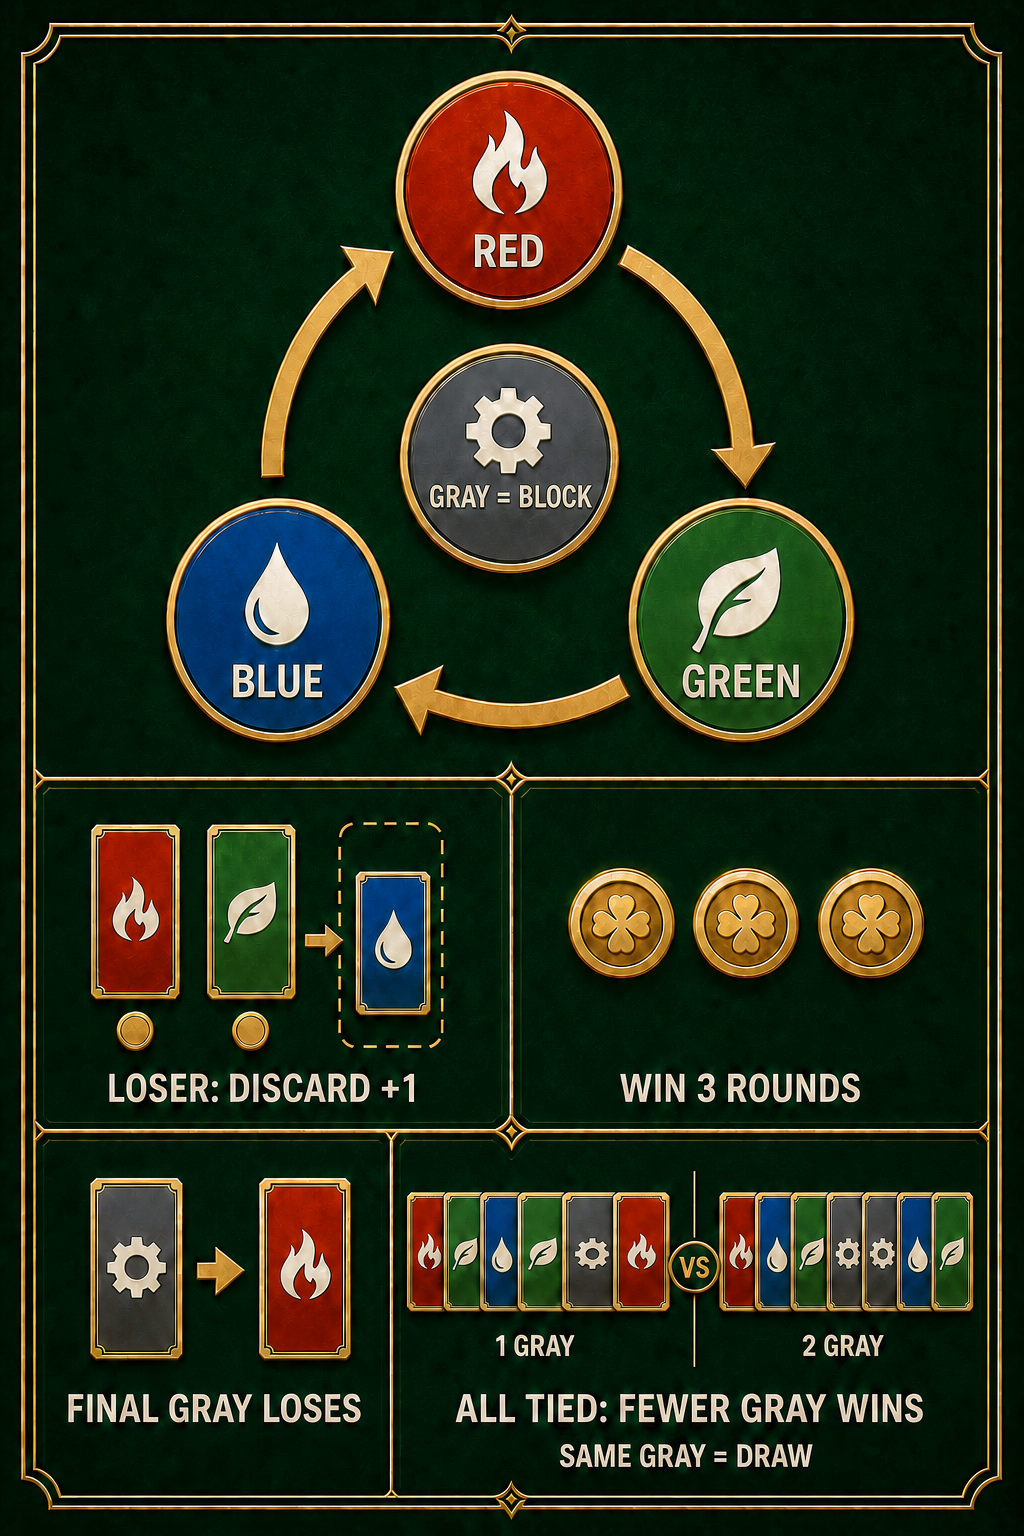
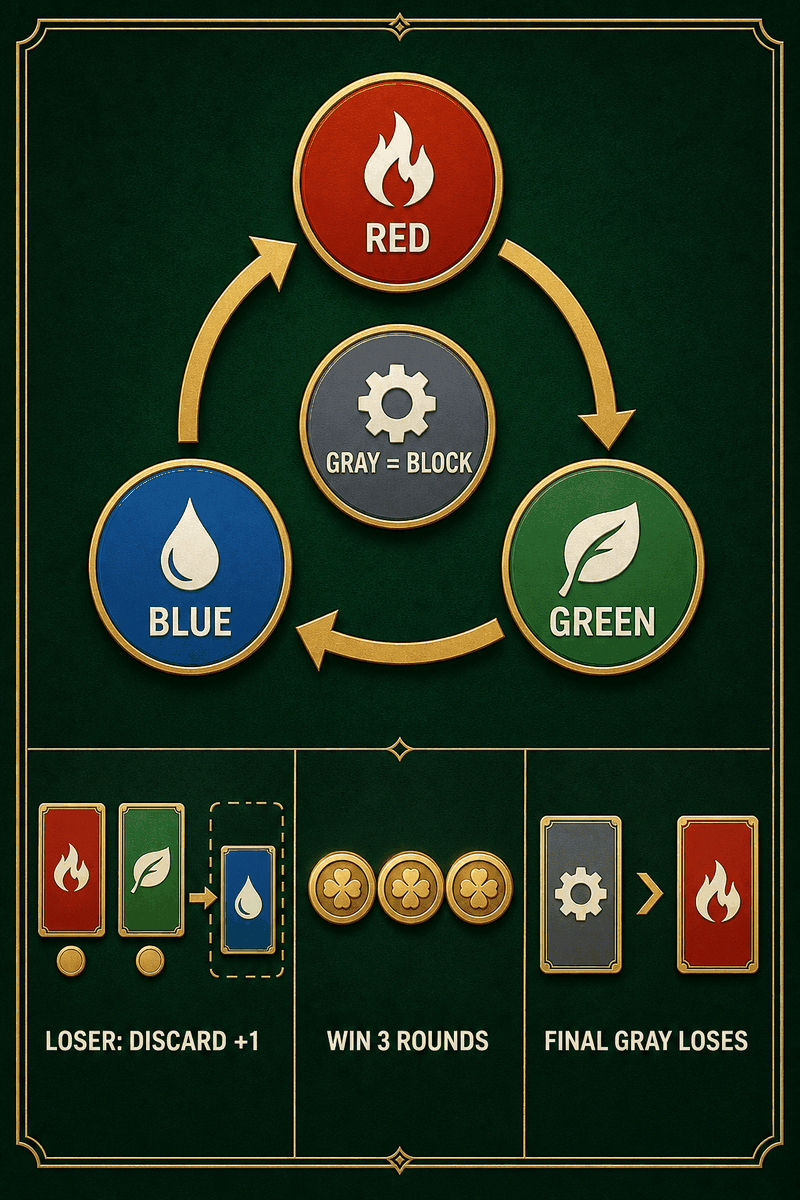
CORE7 v0.4.3 conversation starter

diff --git a/core7/rules/index.html b/core7/rules/index.html
@@ -37,7 +37,7 @@
         <h3>เกมนี้ใช้ข้อมูลบนการ์ดเพียงอย่างเดียว: สี</h3>
         <p style="font-size:15px">ใช้การ์ดอะไรก็ได้ — การ์ดของเรา กระดาษสี หรือการ์ดจากเกมอื่นใส่ซองสี
         ขอเพียงทุกคนรู้ว่าแต่ละใบแทนสีอะไร ภาพและความหายากไม่มีผลต่อเกมเลย</p>
-        <img class="rules-hero-img" src="/core7/assets/core7-rules-overview.png" alt="แดงชนะเขียว เขียวชนะฟ้า ฟ้าชนะแดง เทาเป็น Block และถ้าเสมอทุกตา คนที่มีเทาน้อยกว่าชนะ">
+        <img class="rules-hero-img" src="/core7/assets/core7-rules-overview.png" alt="แดงชนะเขียว เขียวชนะฟ้า ฟ้าชนะแดง เทาเป็น Block ผู้แพ้ทิ้งเพิ่มหนึ่งใบ ชนะสามรอบ และ Final Gray">
         <div class="kbox">
           🔴 <b>แดง</b> ชนะ 🟢 เขียว<br>
           🟢 <b>เขียว</b> ชนะ 🔵 ฟ้า<br>
@@ -85,8 +85,6 @@
             — เครื่องมือซื้อเวลาได้ แต่เลือกชัยชนะครั้งสุดท้ายแทนมนุษย์ไม่ได้</li>
           <li>รอบสุดท้ายสีเดียวกัน (รวมเทา vs เทา) → ย้อนดูประวัติจากรอบล่าสุดไปเก่าสุด
             ข้ามรอบเสมอ — ใครชนะรอบแรกที่พบ คนนั้นชนะ Match</li>
-          <li><b>เสมอทุกตา</b> → เปิด Starting Hand ครบ 7 ใบของทั้งคู่ แล้วคนที่เริ่มด้วย<b>สีเทาน้อยกว่า</b>ชนะ Match</li>
-          <li>ถ้าจำนวนสีเทาเท่ากันด้วยจริง ๆ จึงเป็น <b>DRAW</b> — เกิดได้ยากมาก นับว่าใจตรงกันพอดี</li>
         </ol>
       </div>
 
@@ -106,7 +104,7 @@
         <p style="font-size:15px">You never need to buy our cards to play CORE7.
         Print your own, use colored paper, sleeve any cards you already own, or bring cards
         from another game. As long as every card clearly represents one of the four colors, you can play.</p>
-        <img class="rules-hero-img" src="/core7/assets/core7-rules-overview.png" alt="Red beats green, green beats blue, blue beats red, gray blocks, and fewer starting gray wins if every round ties">
+        <img class="rules-hero-img" src="/core7/assets/core7-rules-overview.png" alt="Red beats green, green beats blue, blue beats red, gray blocks, loser discards one, win three rounds, and Final Gray">
         <div class="kbox">
           🔴 <b>RED</b> beats 🟢 GREEN<br>
           🟢 <b>GREEN</b> beats 🔵 BLUE<br>
@@ -150,8 +148,6 @@
             non-gray color — a tool can buy time, but it cannot choose the final victory for you.</li>
           <li>Same color in the final round (including gray vs gray) → walk back through the round
             history, newest to oldest, skipping ties. First decisive round wins the match.</li>
-          <li><b>Every round tied</b> → reveal both complete 7-card starting hands. The player who started with <b>fewer GRAY cards</b> wins the match.</li>
-          <li>Only if both GRAY counts are also equal is the match a <b>DRAW</b> — extremely rare; perfectly in sync.</li>
         </ol>
       </div>
       <div class="panel rule-block">

diff --git a/core7/index.html b/core7/index.html
@@ -29,7 +29,7 @@
 @media(min-width:880px){.hero-grid{grid-template-columns:1.15fr .85fr}}
 .hero-cycle{display:flex;flex-direction:column;align-items:center;gap:10px}
 .hero-cycle .cap{font-size:13px;color:rgb(255 255 255/.72);text-align:center;max-width:46ch}
-.rules-overview{display:block;width:min(100%,440px);height:auto;object-fit:contain;box-shadow:0 22px 54px rgb(0 0 0/.32)}
+.rules-overview{display:block;width:min(100%,440px);height:auto;box-sizing:border-box;object-fit:contain;background:#071b10;border:6px solid #0b1712;border-radius:26px;padding:6px;box-shadow:0 22px 54px rgb(0 0 0/.38),0 0 0 1px rgb(var(--gold-l)/.55)}
 .cta-row{display:flex;gap:12px;flex-wrap:wrap;margin-top:30px}
 .step3{display:grid;gap:16px;grid-template-columns:1fr}
 @media(min-width:720px){.step3{grid-template-columns:repeat(3,1fr)}}
@@ -59,7 +59,7 @@
 <header class="hero">
   <div class="wrap hero-grid">
     <div>
-      <span class="tag tag-gold">v0.4.2 · FIRST HAND — ชุดแรก · เล่นฟรี</span>
+      <span class="tag tag-gold">v0.4.3 · FIRST HAND — ชุดแรก · เล่นฟรี</span>
       <h1 class="disp">my<span class="c7">Clover</span>: CORE7</h1>
       <p class="promise">7 ใบ ไม่มีเด็ค ไม่มีดวง<br>มีแค่สิ่งที่คุณเลือก<br>และคนที่นั่งตรงข้าม</p>
       <p class="promise-en">Seven cards. No deck. No draw. Just your choices and the person across the table.</p>
@@ -71,7 +71,7 @@
     </div>
     <div class="hero-cycle">
       <img class="rules-overview" src="/core7/assets/core7-rules-overview.png"
-        alt="CORE7: แดงชนะเขียว เขียวชนะฟ้า ฟ้าชนะแดง เทาเป็น Block ผู้แพ้ทิ้งเพิ่มหนึ่งใบ ชนะครบสามรอบ Final Gray แพ้สีจริง และถ้าเสมอทุกตาเทาน้อยกว่าชนะ">
+        alt="CORE7: แดงชนะเขียว เขียวชนะฟ้า ฟ้าชนะแดง เทาเป็น Block ผู้แพ้ทิ้งเพิ่มหนึ่งใบ ชนะครบสามรอบ และ Final Gray แพ้สีจริง">
       <p class="cap">กติกาหลักทั้งหมดในภาพเดียว · Complete rules at a glance</p>
     </div>
   </div>

diff --git a/core7/js/match-ui.js b/core7/js/match-ui.js
@@ -60,8 +60,8 @@ export function mountMatch(root, client, { onFinished, oppLabel = '' } = {}) {
         <button class="drawer-toggle" id="histBtn" aria-label="เปิด Discard" aria-expanded="false">🗑 Discard</button>
         <div class="match-rules-popover" id="rulesPopover" hidden role="dialog" aria-label="กติกา CORE7">
           <div class="match-rules-head"><b class="disp">CORE7 Rules</b><button type="button" id="rulesClose" aria-label="ปิด Rules">✕</button></div>
-          <img src="/core7/assets/core7-rules-overview.png" alt="แดงชนะเขียว เขียวชนะฟ้า ฟ้าชนะแดง เทาเป็น Block เสมอทุกตาเทาน้อยกว่าชนะ">
-          <p>🔴 &gt; 🟢 &gt; 🔵 &gt; 🔴 · ⚙ = BLOCK<br>เสมอทุกตา: เปิดมือ แล้วคนที่มีเทาน้อยกว่าชนะ · เทาเท่ากัน = DRAW</p>
+          <img src="/core7/assets/core7-rules-overview.png" alt="แดงชนะเขียว เขียวชนะฟ้า ฟ้าชนะแดง เทาเป็น Block ผู้แพ้ทิ้งเพิ่มหนึ่งใบ ชนะสามรอบ และ Final Gray">
+          <p>🔴 &gt; 🟢 &gt; 🔵 &gt; 🔴 · ⚙ = BLOCK<br>ผู้แพ้ทิ้งเพิ่ม 1 ใบ · ชนะครบ 3 รอบ</p>
           <a href="/core7/rules/" target="_blank" rel="noopener">อ่านกติกาเต็ม TH / EN ↗</a>
         </div>
         <div class="rule-line" aria-label="แดงชนะเขียว เขียวชนะฟ้า ฟ้าชนะแดง เทาเป็นบล็อก"><span>🔴 &gt; 🟢 &gt; 🔵 &gt; 🔴</span><span>⚙ = BLOCK</span></div>

diff --git a/core7/js/art.js b/core7/js/art.js
@@ -581,7 +581,7 @@ export function genericCardSVG(color, { width = 300 } = {}) {
 /* ═══ หลังการ์ด — ตราหัวใจโคลเวอร์ + วงเข็มทิศทอง ═══
    ชื่อบนหลังการ์ดคือ "myClover" เท่านั้น (CORE7 เป็นชื่อโหมดของเกม
    ไม่ใช่ชื่อการ์ด — ห้ามพิมพ์บนใบ) ใช้แบบเดียวกันทุกใบ เดาหน้าไพ่ไม่ได้ */
-export function cardBackSVG({ width = 300 } = {}) {
+function legacyCardBackSVG({ width = 300 } = {}) {
   const id = nid('cb');
   /* หนามเพชรของวงเข็มทิศ: ยาวแกนหลัก สั้นแกนทแยง */
   const spike = (rot, len) => `
@@ -639,6 +639,18 @@ export function cardBackSVG({ width = 300 } = {}) {
       <circle cx="0" cy="-2.2" r="2"/><circle cx="-2.6" cy="1" r="2"/>
       <circle cx="2.6" cy="1" r="2"/><path d="M-.6 2 L.6 2 L1.4 6 L-1.4 6 Z"/>
     </g>
+  </svg>`;
+}
+
+/* หลังการ์ดจริงของ CORE7 — 2.5 × 3.5 นิ้ว (5:7), asset เดียวกันทั้งจอและงานพิมพ์ */
+export function cardBackSVG({ width = 300 } = {}) {
+  const id = nid('cb-photo');
+  const height = Math.round(width * 1.4);
+  return `<svg width="${width}" height="${height}" viewBox="0 0 300 420"
+    role="img" aria-label="หลังการ์ด myClover CORE7">
+    <defs><clipPath id="${id}-clip"><rect width="300" height="420" rx="18"/></clipPath></defs>
+    <image href="/core7/assets/card-back-core7.png" width="300" height="420"
+      preserveAspectRatio="none" clip-path="url(#${id}-clip)"/>
   </svg>`;
 }
 

diff --git a/core7/join/index.html b/core7/join/index.html
@@ -9,7 +9,7 @@
 </style>
 </head>
 <body><nav class="c7nav" id="c7nav"></nav><main class="sec"><div class="wrap-slim">
-  <p class="eyebrow">v0.4.2 · Public Lobby</p><h2 class="disp">เข้าห้องออนไลน์</h2>
+  <p class="eyebrow">v0.4.3 · Public Lobby</p><h2 class="disp">เข้าห้องออนไลน์</h2>
   <div class="panel" style="margin-top:20px">
     <div class="field"><label for="jname">ชื่อของคุณบนโต๊ะ</label><input id="jname" maxlength="24"></div>
     <div class="join-row"><div class="field"><label for="jcode">รหัสห้อง 4 หลัก</label><input id="jcode" inputmode="numeric" pattern="[0-9]{4}" maxlength="4" placeholder="0042" autocomplete="one-time-code" style="font-family:'Bai Jamjuree';letter-spacing:4px;font-size:20px"></div><button class="btn btn-gold" id="joinCode">Join</button></div>

diff --git a/core7/room/index.html b/core7/room/index.html
@@ -10,7 +10,7 @@
 </head>
 <body>
 <div id="lobbyWrap"><nav class="c7nav" id="c7nav"></nav><main class="sec"><div class="wrap-slim" id="lobby">
-  <p class="eyebrow" id="modeLine">v0.4.2 · Online</p><h2 class="disp">ห้อง <span class="codebig" id="codeShow"></span></h2>
+  <p class="eyebrow" id="modeLine">v0.4.3 · Online</p><h2 class="disp">ห้อง <span class="codebig" id="codeShow"></span></h2>
   <div id="content"></div><div id="status" role="status" style="margin-top:16px;font-size:14px;color:rgb(var(--muted))"></div><div id="actions" style="display:flex;gap:10px;flex-wrap:wrap;margin-top:18px"></div>
 </div></main><footer class="c7foot" id="c7foot"></footer></div>
 <div id="match" hidden></div>

diff --git a/core7/js/ui.js b/core7/js/ui.js
@@ -58,7 +58,7 @@ export function renderShell({ active = '', minimal = false } = {}) {
     foot.innerHTML = `
       <div class="wrap cols">
         <div>
-          <strong class="disp">myClover: CORE7 <small>v0.4.2</small></strong> — 7 ใบ ไม่มีเด็ค ไม่มีดวง<br>
+          <strong class="disp">myClover: CORE7 <small>v0.4.3</small></strong> — 7 ใบ ไม่มีเด็ค ไม่มีดวง<br>
           เล่นฟรีด้วยการ์ดอะไรก็ได้ · <a href="/core7/open-play/">Open Play</a> · <a href="/core7/about/">เรื่องของเกมนี้</a>
         </div>
         <div>

diff --git a/core7/create/index.html b/core7/create/index.html
@@ -14,7 +14,7 @@
 <body>
 <nav class="c7nav" id="c7nav"></nav>
 <main class="sec"><div class="wrap-slim">
-  <p class="eyebrow">v0.4.2 · Online Multiplayer</p>
+  <p class="eyebrow">v0.4.3 · Online Multiplayer</p>
   <h2 class="disp">สร้างห้องให้เพื่อน</h2>
   <div class="panel" style="margin-top:20px">
     <div class="field"><label for="hname">ชื่อของคุณบนโต๊ะ</label><input id="hname" maxlength="24"></div>

diff --git a/core7/PATCH-NOTES.md b/core7/PATCH-NOTES.md
@@ -1,5 +1,12 @@
 # myClover: CORE7 — Patch Notes
 
+## 2026-08-02 — v0.4.3 Conversation Starter
+
+- คืนภาพกติกาแบบเดิมที่สื่อสารแกนเกมได้ทันที และเอา All Tie ออกจากคำอธิบายกติกาที่ผู้เล่นเห็น
+- วางภาพกติกาหน้าแรกในกรอบมนแบบการ์ดจริง
+- เปลี่ยนหลังการ์ดทุกจุดเป็นภาพจริง `hall-core7.png` ที่ปรับเป็นมาตรฐาน 2.5 × 3.5 นิ้ว (750×1050 px)
+- ปรับถ้อยคำ Tutorial ให้ย้ำว่า CORE7 เป็น Conversation Starter ที่ช่วยให้คนเปิดบทสนทนา
+
 ## 2026-08-02 — v0.4.2 Rules Hotfix
 
 - ถอดชื่อสายแบบเดิมออกจากหน้าเกมและ metadata ฝั่ง UI ใช้เฉพาะสีโดยไม่ตีความ

diff --git a/core7/README.md b/core7/README.md
@@ -6,7 +6,7 @@
 โมดูลนี้ Self-contained ทั้งหมดอยู่ใต้ `/core7/` — ไม่แตะหน้าอื่นของ
 myclover.com ไม่มี Build Step ไม่มี Dependency ภายนอก (Vanilla ES Modules)
 
-## เล่นอะไรได้แล้วบ้าง (v0.4.2)
+## เล่นอะไรได้แล้วบ้าง (v0.4.3)
 
 | ระบบ | สถานะ |
 |---|---|
